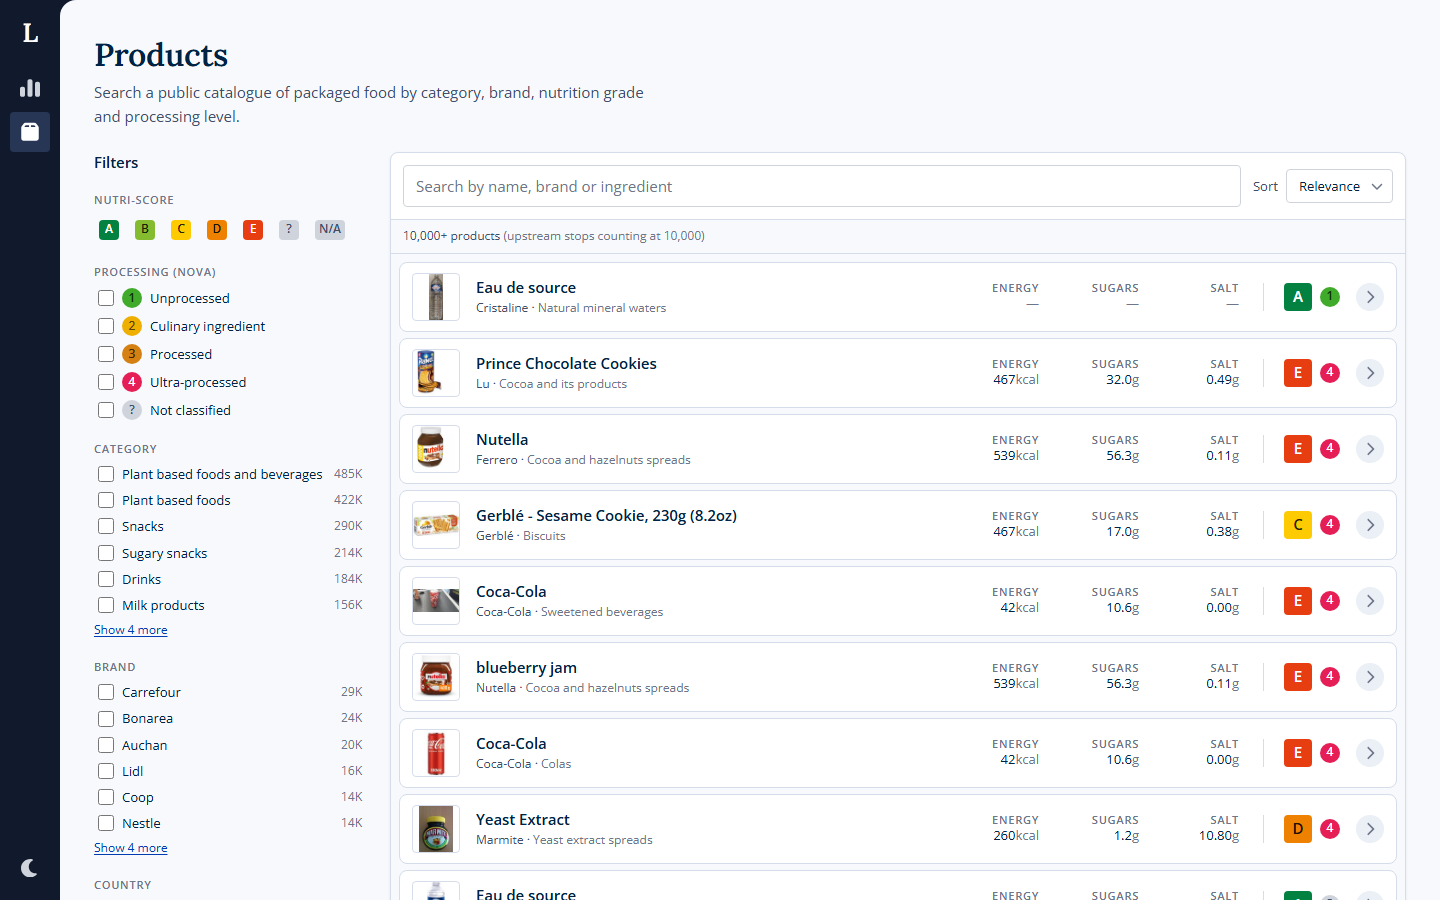
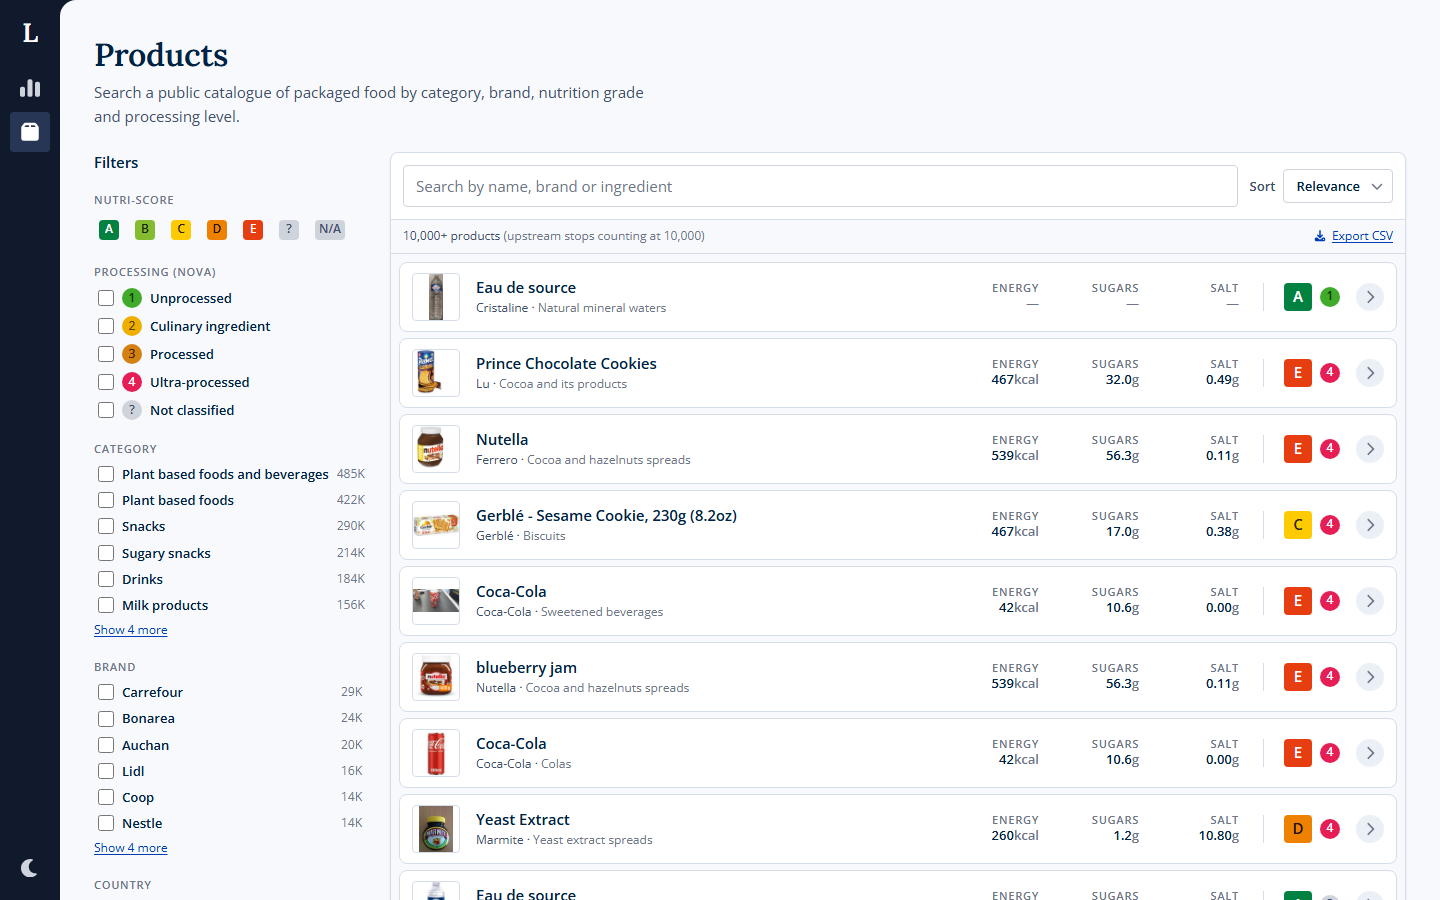
docs: refresh the screenshots with the export dialog

diff --git a/README.md b/README.md
@@ -23,6 +23,14 @@ Nuxt 4, Vue 3.5, Tailwind 4, and a Nitro backend-for-frontend.
 
 ![Nutrition profile against EU reference intakes, with additives and labels](docs/screenshots/product-dark.png)
 
+**Export, narrowed from a dialog**
+
+![The export dialog with a word and a brand picked, ready to download 889 products](docs/screenshots/export-light.png)
+
+**Export past the 10,000 limit, dark theme**
+
+![The export dialog explaining the 10,000 product limit and linking to the full data set](docs/screenshots/export-too-many-dark.png)
+
 Regenerate with `pnpm run screenshots` against a production build.
 
 </details>
